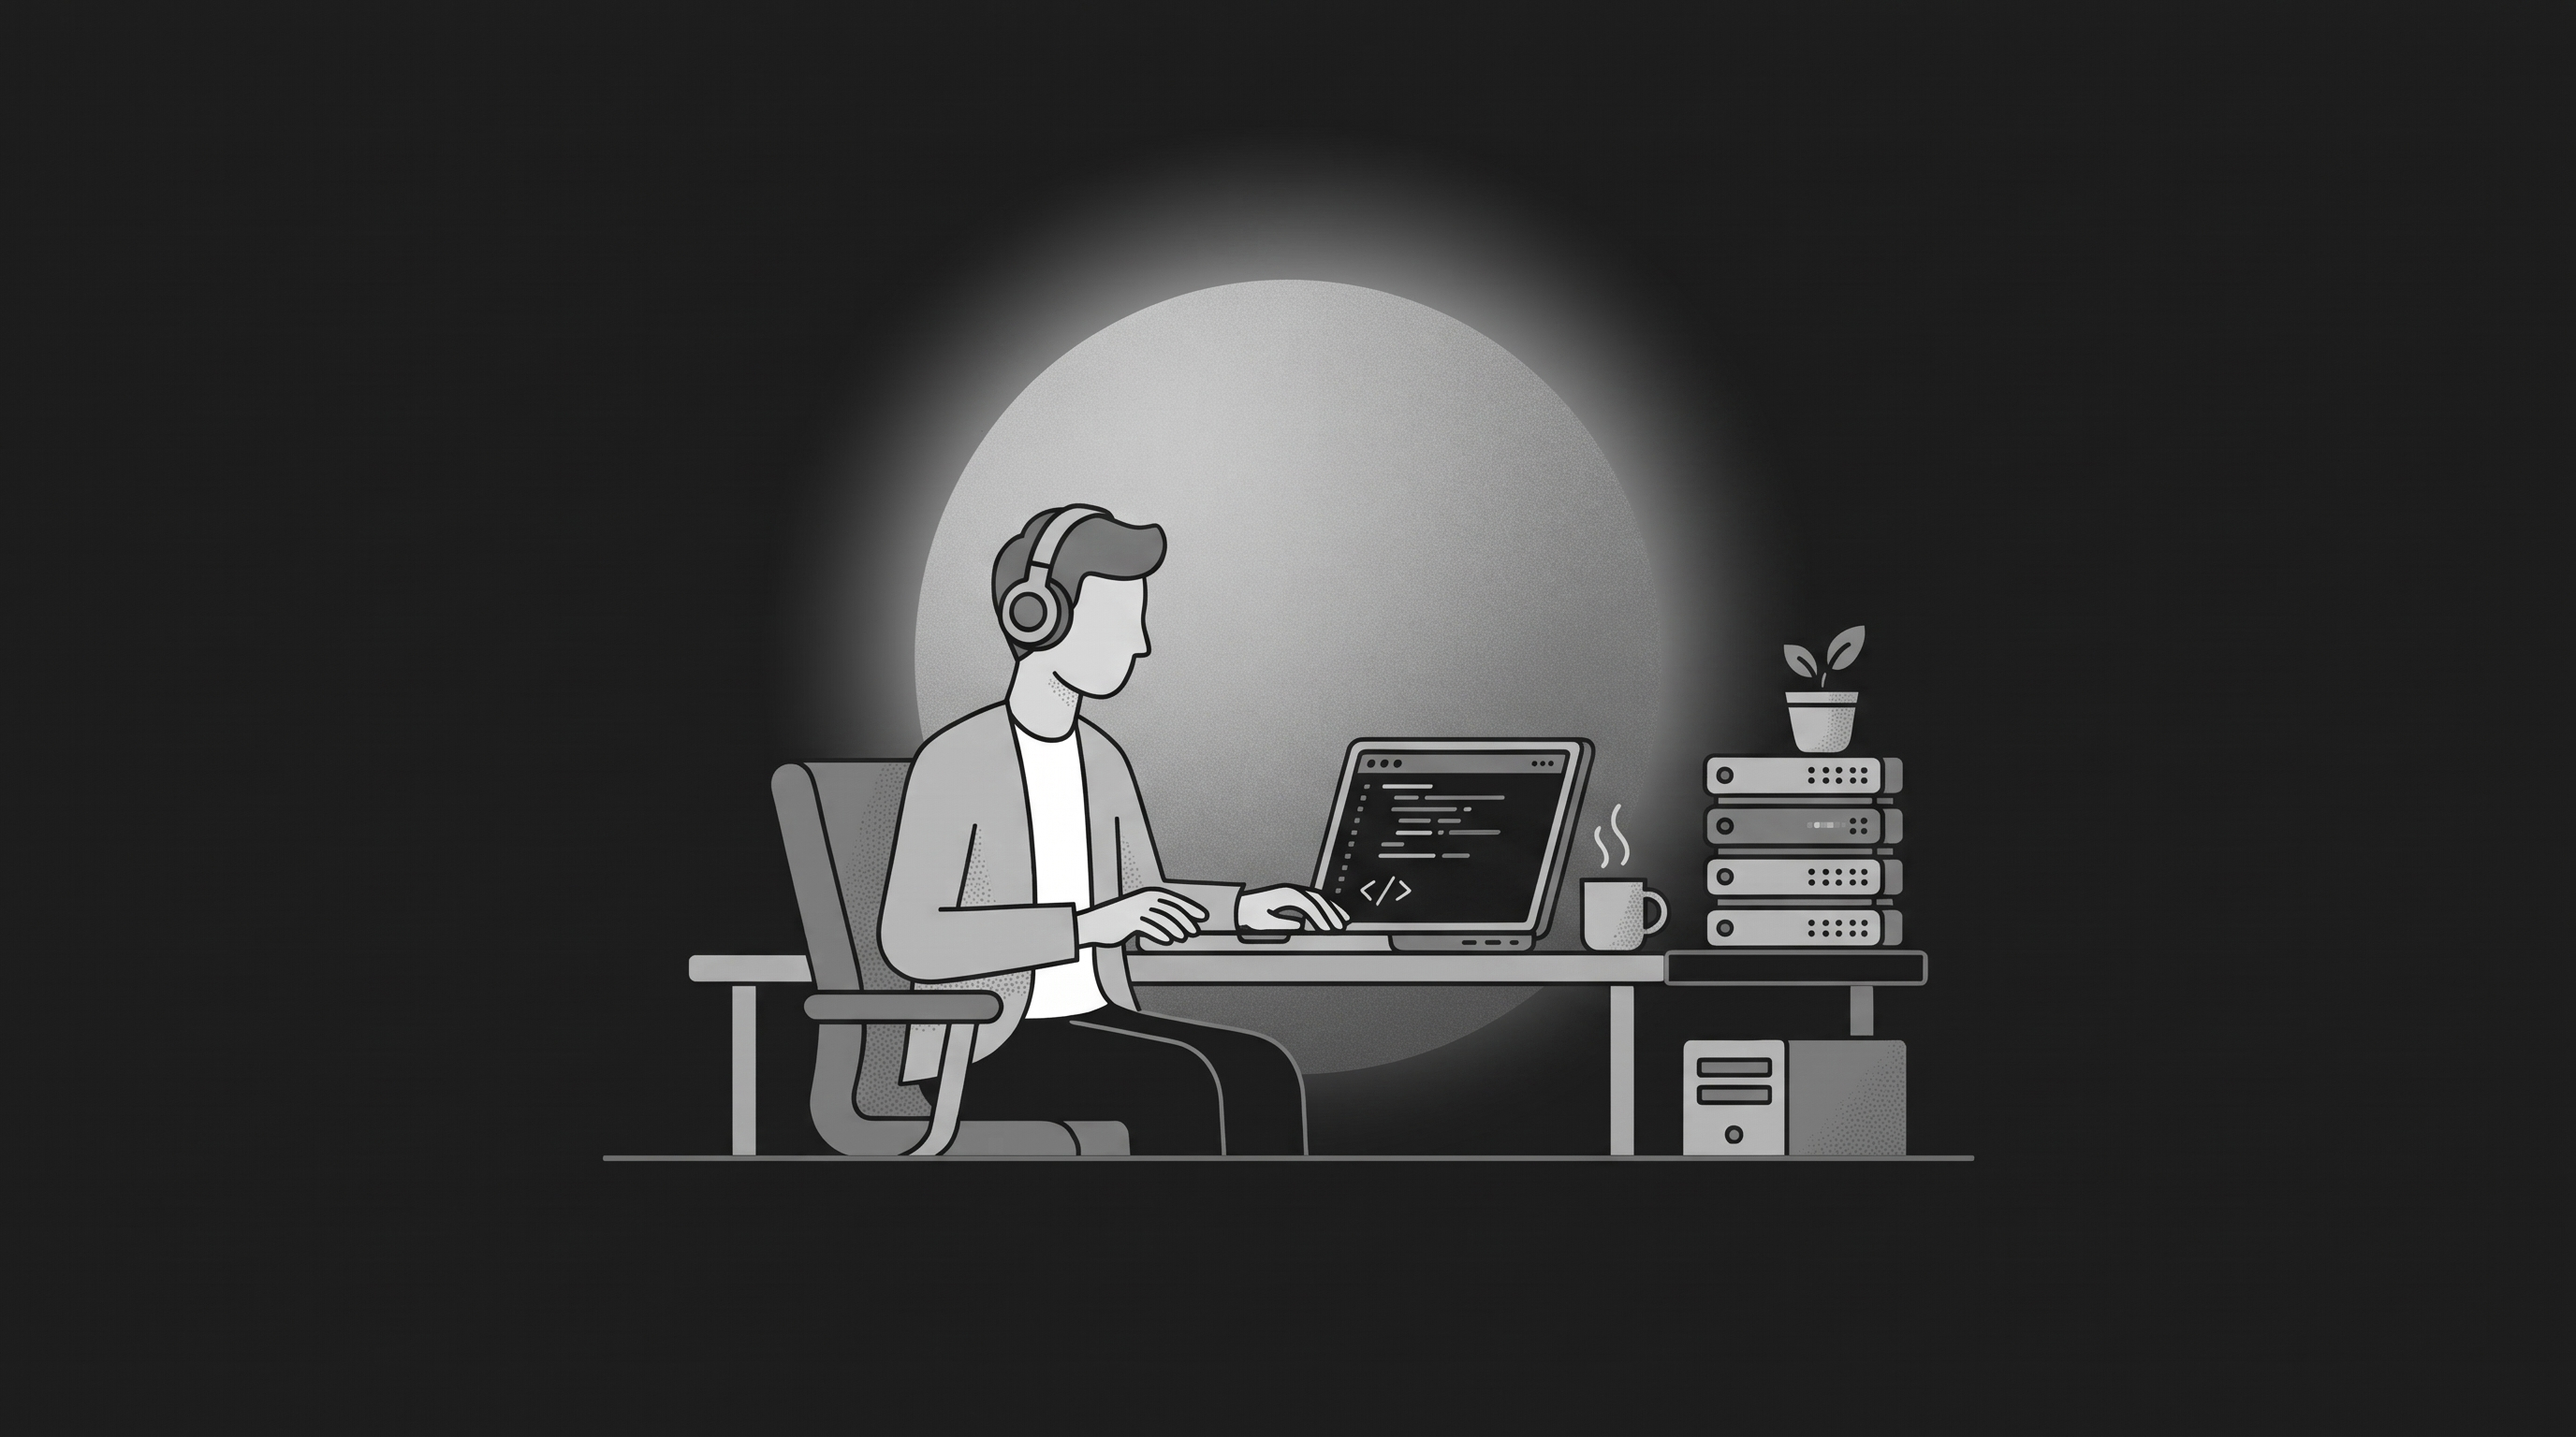
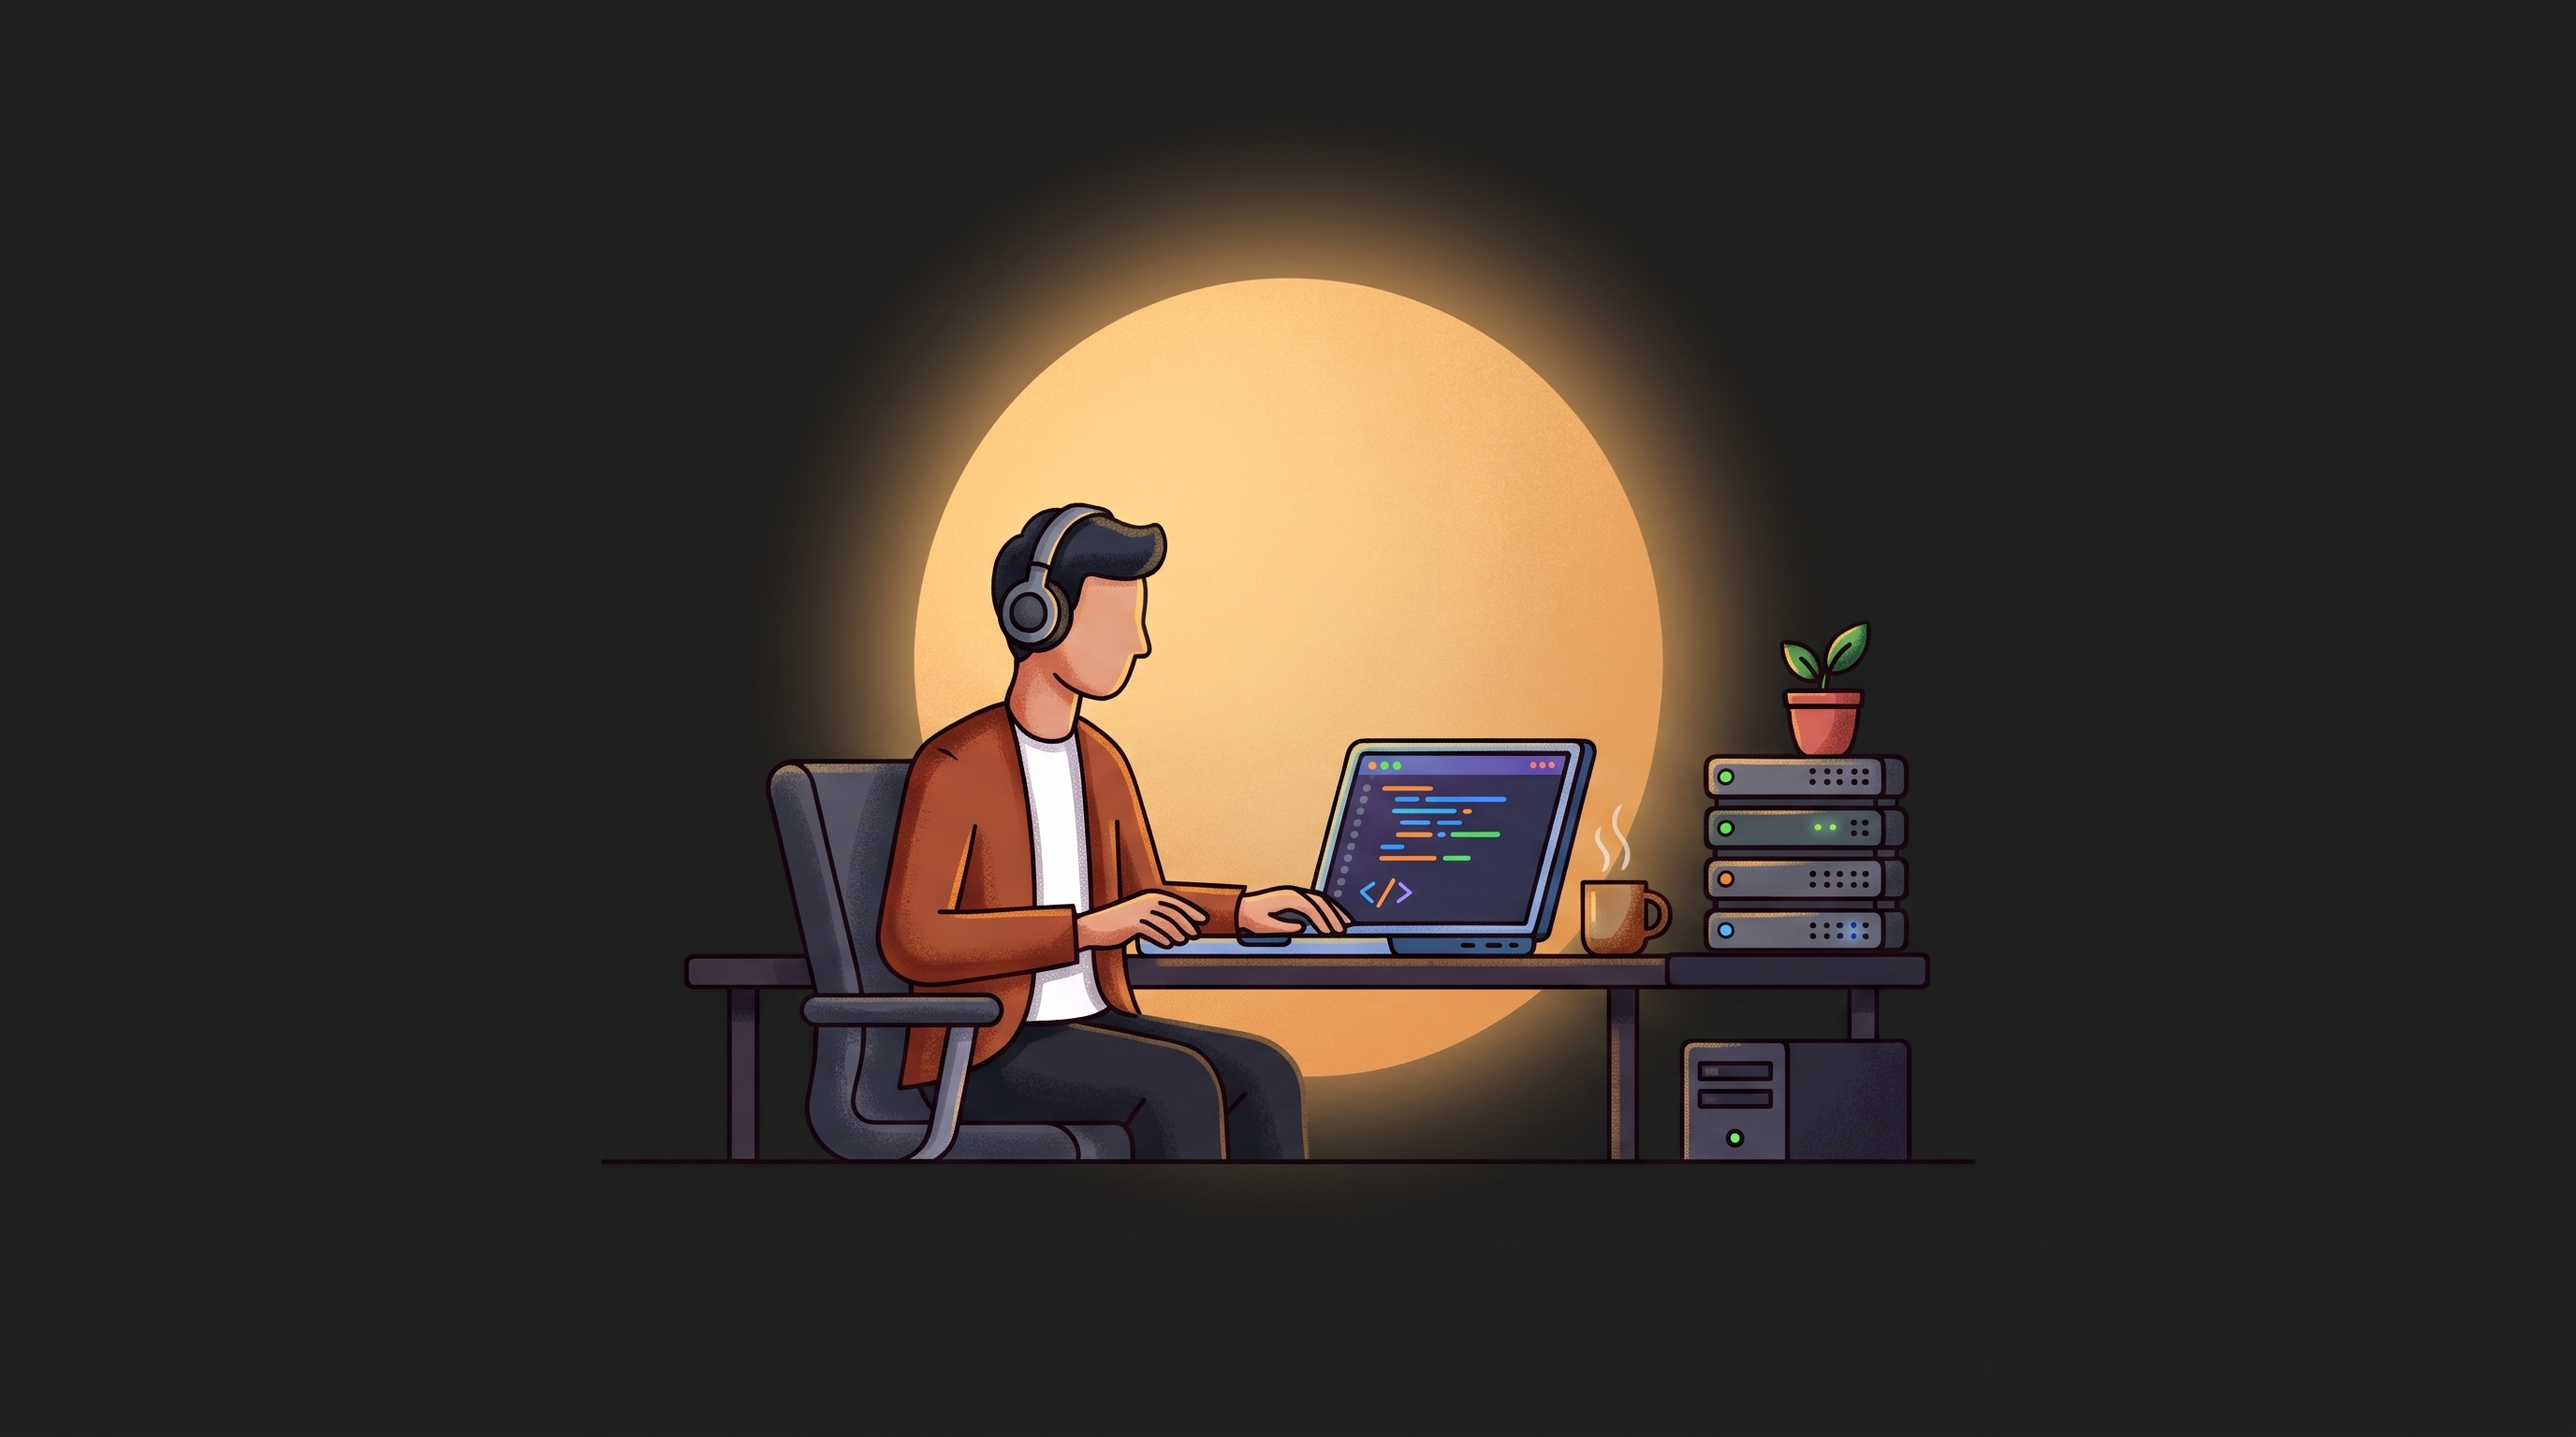
Add colorful role images

Changed region(s): [[0.25, 0.1562, 0.75, 0.8125]]

diff --git a/components/tech-stack/orbit-node.tsx b/components/tech-stack/orbit-node.tsx
@@ -65,7 +65,7 @@ export default function OrbitNode({
             alt={item.name}
             loading="lazy"
             draggable={false}
-            className="h-6 w-6 object-contain opacity-85 grayscale transition-all duration-300 group-hover:opacity-100 group-hover:grayscale-0 group-focus-visible:opacity-100 group-focus-visible:grayscale-0"
+            className="h-6 w-6 object-contain opacity-85 grayscale-25 transition-all duration-300 group-hover:opacity-100 group-hover:grayscale-0 group-focus-visible:opacity-100 group-focus-visible:grayscale-0"
           />
         </button>
 

diff --git a/components/hero/role-card.tsx b/components/hero/role-card.tsx
@@ -81,6 +81,7 @@ export default function RoleCard({
           src={image}
           alt={`${title} role illustration`}
           fill
+          sizes="(max-width: 768px) 100vw, 50vw"
           draggable={false}
           className="object-cover transition-transform duration-500 group-hover:scale-105"
         />

diff --git a/data/general.ts b/data/general.ts
@@ -26,7 +26,7 @@ export const ROLES: RoleItem[] = [
   {
     title: "Teacher",
     image: "/images/roles/teacher.webp",
-    tag: "ICT • Technical Writing",
+    tag: "OL/AL ICT Tutor",
   },
   {
     title: "Student",
